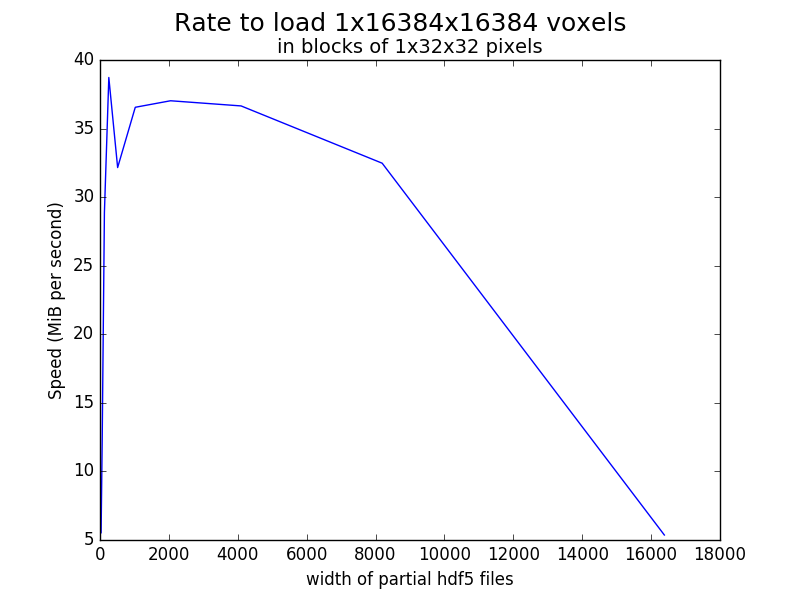
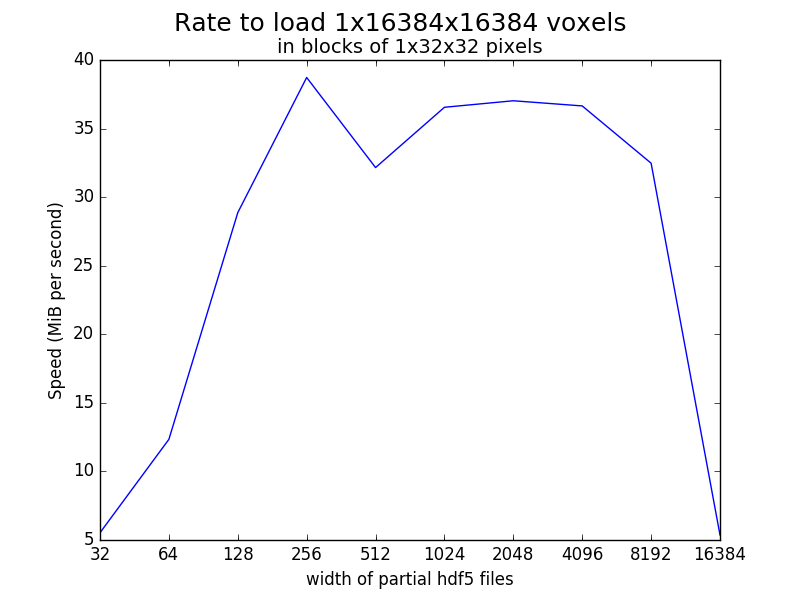
h5_tile_test: use log2 x axis

diff --git a/scripts/h5_tile_test/graph_data.py b/scripts/h5_tile_test/graph_data.py
@@ -1,5 +1,6 @@
 import matplotlib
 matplotlib.use('Agg')
+from matplotlib.ticker import FormatStrFormatter
 import matplotlib.pyplot as plt
 from glob import glob1
 import numpy as np
@@ -43,6 +44,9 @@ if __name__ == '__main__':
     all_r = mean_speeds.T[tile_id]
     ax.plot(all_x, all_r)
 
+    # Power of 2 X axis
+    ax.set_xscale('log', basex=2)
+    ax.xaxis.set_major_formatter(FormatStrFormatter('%d'))
     # Label the graph
     plt.ylabel('Speed (MiB per second)')
     plt.xlabel('width of partial hdf5 files')
